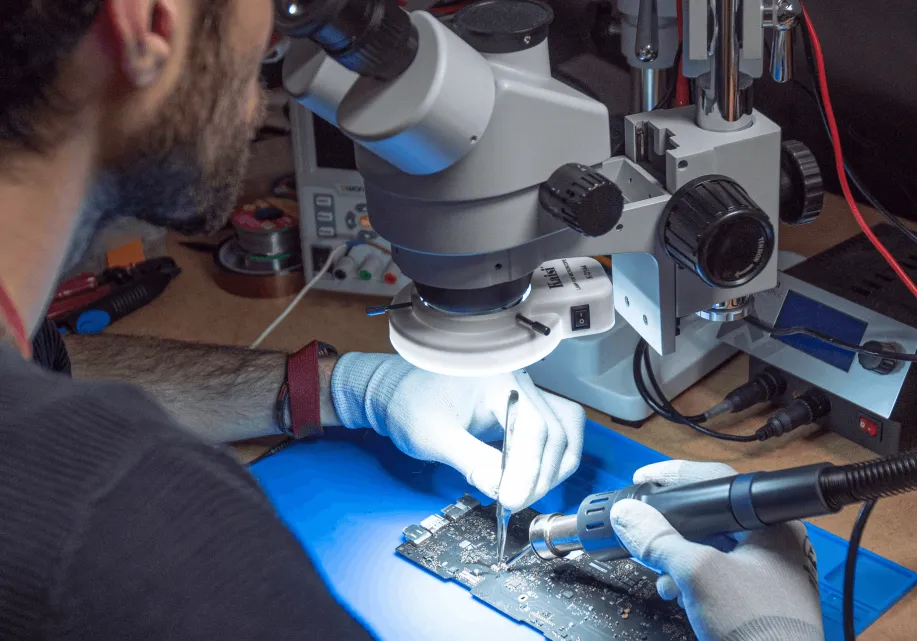
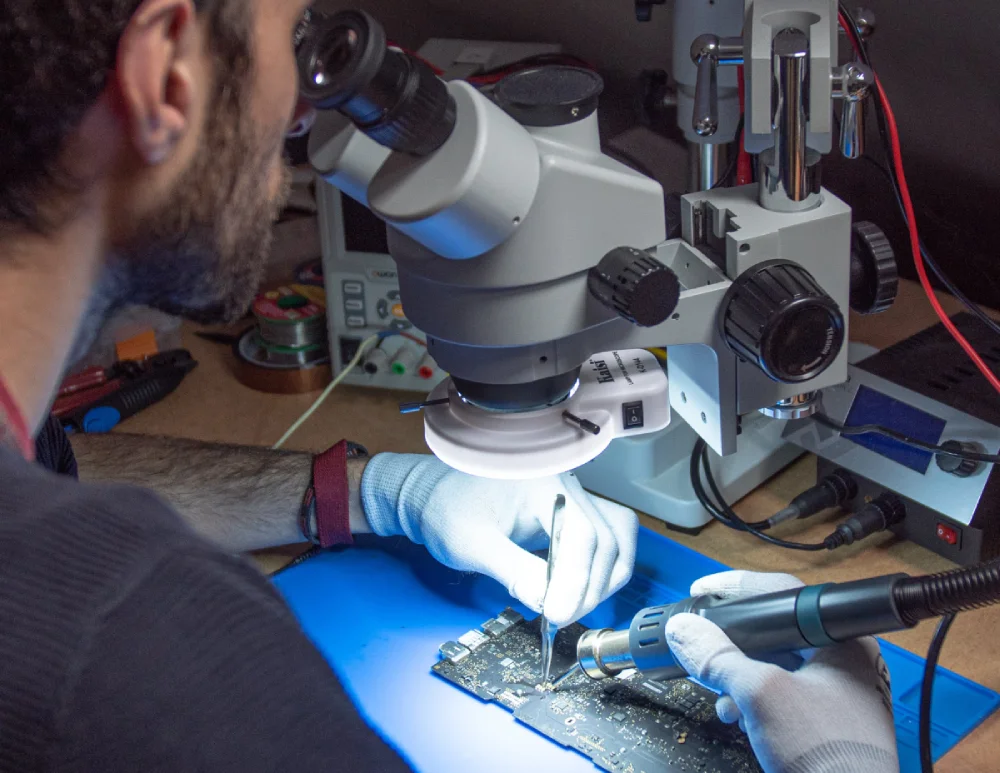
Publish

diff --git a/content/pages/index.md b/content/pages/index.md
@@ -4,23 +4,19 @@ slug: /
 sections:
   - type: GenericSection
     subtitle: ''
-    text: >+
+    text: |
       <span style="color: #11295c"><h2
       id="-votre-machine-peut-tre-r-par-e-"><strong>Votre machine peut être
       réparée !</strong></h2>
 
-
       <h3 id="microsoudure">Réparation de matériel électronique à
       Schiltigheim</h3>
-
 
       <p>📍 21 rue du Soleil 67300 Schiltigheim</p>
 
       <p>📞 06 78 23 50 40</p>
 
-
       </span>
-
     actions:
       - label: Faire un devis
         altText: ''
@@ -38,18 +34,26 @@ sections:
         alignItems: center
         flexDirection: row
         padding:
-          - pt-6
-          - pl-6
-          - pb-6
-          - pr-6
+          - pt-4
+          - pl-4
+          - pb-4
+          - pr-4
     media:
       type: ImageBlock
-      url: /images/header image.webp
+      url: /images/réparation-micro-soudure.webp
       altText: Réparation Macbook Strasbourg
       elementId: ''
       styles:
         self:
           borderRadius: medium
+    backgroundImage:
+      type: BackgroundImage
+      altText: altText of the image
+      backgroundSize: cover
+      backgroundPosition: center
+      backgroundRepeat: no-repeat
+      opacity: 15
+      url: /images/thumb-1920-585935-1.webp
   - subtitle: ''
     items:
       - type: FeaturedItem
@@ -124,10 +128,10 @@ sections:
     styles:
       self:
         padding:
-          - pt-6
-          - pl-6
-          - pb-6
-          - pr-6
+          - pt-4
+          - pl-4
+          - pb-4
+          - pr-4
         justifyContent: center
       subtitle:
         textAlign: center
@@ -188,10 +192,10 @@ sections:
         flexDirection: row
         justifyContent: center
         padding:
-          - pt-6
-          - pl-6
-          - pb-6
-          - pr-6
+          - pt-4
+          - pl-4
+          - pb-4
+          - pr-4
       subtitle:
         textAlign: left
   - type: FeaturedItemsSection
@@ -284,10 +288,10 @@ sections:
     styles:
       self:
         padding:
-          - pt-6
-          - pl-6
-          - pb-6
-          - pr-6
+          - pt-4
+          - pl-4
+          - pb-4
+          - pr-4
         justifyContent: center
       subtitle:
         textAlign: center
